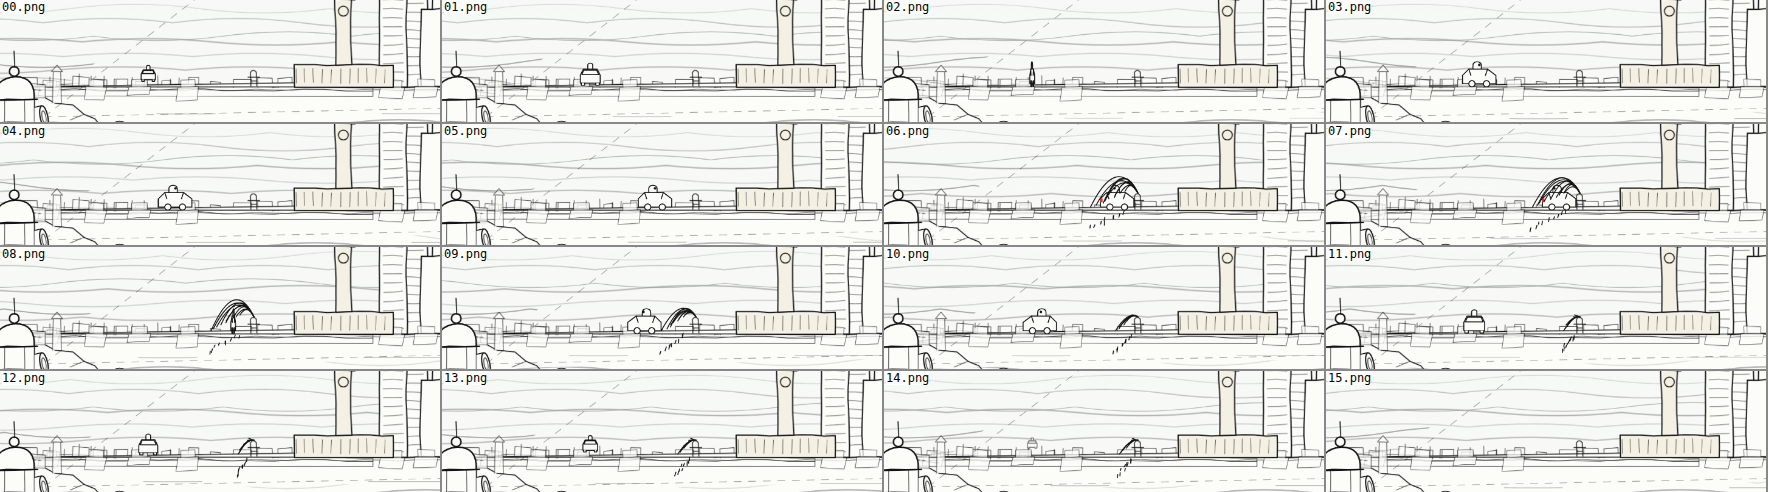
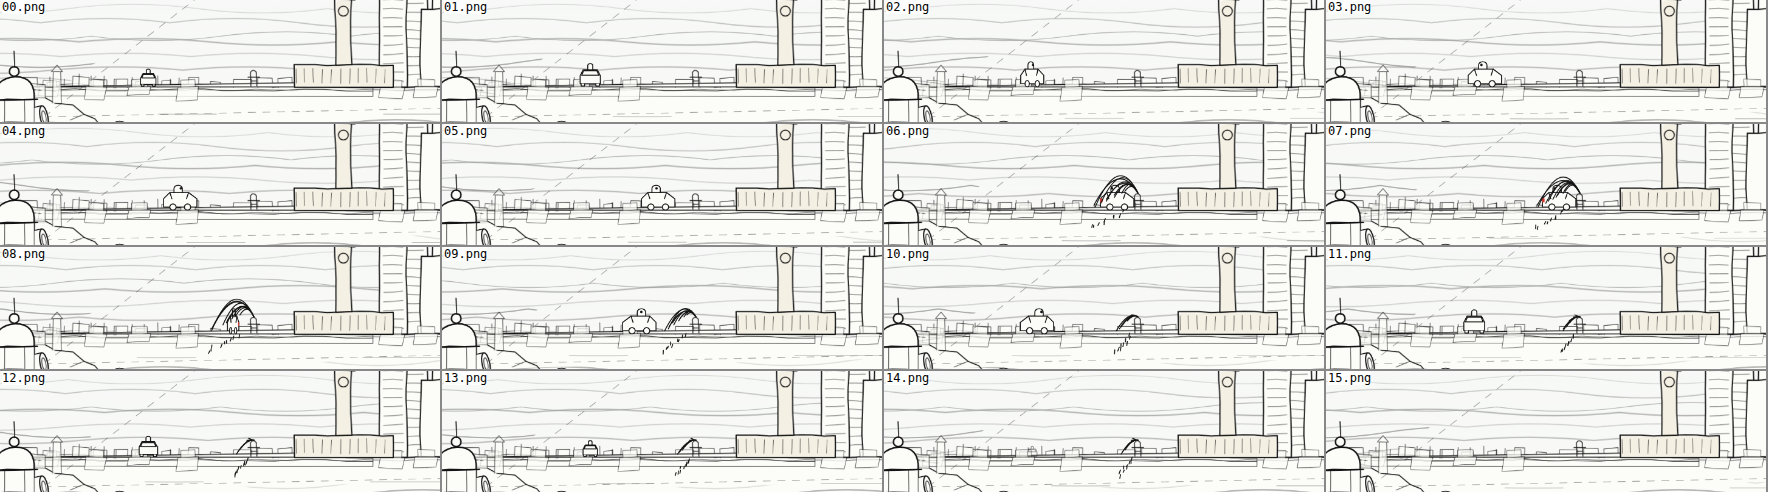
Mockup: frame fits the stage's shape, robotaxi on one plane, more boats and whales
On a stage taller than the drawing, as on a phone, the extra height becomes sky above it and room for the stamp below: the sky colour, stars, moon, clouds, rain and a rocket's climb reach the top of the frame. The robotaxi keeps to the waterfront's line and only its size changes. At the point and the bridge a boat and a whale come in the first act, whales and boats come twice for each rocket or bear, and boats also keep their own slower clock, two on the water at most.

diff --git a/docs/mockup/index.html b/docs/mockup/index.html
@@ -253,12 +253,12 @@ header.top{display:flex;align-items:baseline;justify-content:space-between;gap:1
         <filter id="haze" x="-100%" y="-100%" width="300%" height="300%"><feGaussianBlur stdDeviation="5"/></filter>
         <filter id="lamp" x="-400%" y="-400%" width="900%" height="900%"><feGaussianBlur in="SourceGraphic" stdDeviation="2.2" result="b"/><feMerge><feMergeNode in="b"/><feMergeNode in="b"/><feMergeNode in="SourceGraphic"/></feMerge></filter>
         <filter id="lampwide" x="-60%" y="-60%" width="220%" height="220%"><feGaussianBlur stdDeviation="3.5"/></filter>
-        <linearGradient id="skygrad" x1="0" y1="0" x2="0" y2="1"><stop id="sky-top" offset="0" stop-color="#BFD3E6" stop-opacity="0"/><stop id="sky-low" offset="1" stop-color="#F2B48C" stop-opacity="0"/></linearGradient>
-        <clipPath id="above-horizon"><rect x="0" y="-400" width="1600" height="740"/></clipPath>
+        <linearGradient id="skygrad" gradientUnits="userSpaceOnUse" x1="0" y1="0" x2="0" y2="342"><stop id="sky-top" offset="0" stop-color="#BFD3E6" stop-opacity="0"/><stop id="sky-low" offset="1" stop-color="#F2B48C" stop-opacity="0"/></linearGradient>
+        <clipPath id="above-horizon"><rect x="0" y="-3000" width="1600" height="3340"/></clipPath>
         <mask id="fogmask"><rect x="0" y="0" width="1600" height="700" fill="white"/><polygon id="cone" points="0,0" fill="black"/></mask>
         <mask id="binoc"><rect x="0" y="0" width="1600" height="700" fill="black"/><circle cx="700" cy="290" r="210" fill="white"/><circle cx="900" cy="290" r="210" fill="white"/></mask>
       </defs>
-      <g class="zoom"><g id="skywashg"><rect class="skywash" x="0" y="0" width="1600" height="342" fill="url(#skygrad)"/></g></g>
+      <g class="zoom"><g id="skywashg"><rect class="skywash" id="skywash" x="0" y="0" width="1600" height="342" fill="url(#skygrad)"/></g></g>
       <g id="celes" class="scene sky thin"></g>
       <g class="zoom"><g id="skyall"><g id="sky" class="scene sky thin"></g><g id="fogfar" class="fog scene"></g></g></g>
       <g id="lifeback" class="life scene"></g>
@@ -372,6 +372,9 @@ header.top{display:flex;align-items:baseline;justify-content:space-between;gap:1
   const NS = "http://www.w3.org/2000/svg";
   const el = (tag, attrs={}, parent) => { const n = document.createElementNS(NS, tag); for (const k in attrs) n.setAttribute(k, attrs[k]); if (parent) parent.appendChild(n); return n; };
   function rng(seed){ let s = seed; return () => (s = (s * 16807) % 2147483647) / 2147483647; }
+  // the frame: the drawing is 1600 by 700; a stage of another shape, a phone's for one, gets its extra height as more sky above
+  // (and room for the stamp below), so FRAME.top is how far the frame reaches above the drawing's top edge, in its own units
+  const FRAME = { top:0, H:700, title:[0, 0, 440, 104] };
   const W = 1600;                         // the frame is the scene: the view from the point
   const CH = 756, HYD = 1330;             // in the city's own units: City Hall's x, and the hydrant's on the Marina seawall
 
@@ -1044,7 +1047,7 @@ header.top{display:flex;align-items:baseline;justify-content:space-between;gap:1
   // the frame looks from a little north of east round to the south-east: the sun rises over the Gate and the bay
   // drawn, not surveyed: the sky is widened so the whole day and night cross the frame, east at the left edge, west at the right
   function xOfAzimuth(az){ const a = ((az % 360) + 360) % 360; return (Math.max(50, Math.min(310, a)) - 50)/260 * W; }
-  function yOfAltitude(alt){ return 330 - Math.max(-12, Math.min(60, alt))*5.4; }
+  function yOfAltitude(alt){ return 330 - Math.max(-12, Math.min(60, alt))*5.4*(1 + FRAME.top/330); }
   const HEADING = { home:105, city:125, bridge:100, valley:150 };
 
   const sky = $("#sky"), skyFront = $("#skyfront"), celes = $("#celes"); let celesTimer = null, lastView = null;
@@ -1054,11 +1057,11 @@ header.top{display:flex;align-items:baseline;justify-content:space-between;gap:1
     if (view === "home" || view === "valley") sx = Math.max(r + 20, Math.min(1600 - r - 20, sx));
     // at the point, never over a label: lift above it, or failing that set it below
     if (view === "home") for (const [x1, y1, x2, y2] of LABELS) if (sx + r > x1 && sx - r < x2 && sy + r > y1 && sy - r < y2){
-      if (sy < (y1 + y2)/2 || y2 + r + 4 > 332) sy = Math.max(r + 4, y1 - r - 2);                 // above the label, as high as the frame allows
+      if (sy < (y1 + y2)/2 || y2 + r + 4 > 332) sy = Math.max(r + 4 - FRAME.top, y1 - r - 2);                 // above the label, as high as the frame allows
       else sy = y2 + r + 4;                                                                         // or below it, if it was already low
       if (sy + r > y1 && sy - r < y2) sx = (sx < (x1 + x2)/2) ? x1 - r - 6 : x2 + r + 6; }         // and if it still would not clear, beside it
-    for (const [x1, y1, x2, y2] of [[0, 0, 440, 104]]) if (sx + r > x1 && sx - r < x2 && sy + r > y1 && sy - r < y2) sx = x2 + r + 10;   // the title, in every view
-    return (sx - r < 4 || sx + r > 1596 || sy - r < 2) ? null : [sx, sy]; }
+    for (const [x1, y1, x2, y2] of [FRAME.title]) if (sx + r > x1 && sx - r < x2 && sy + r > y1 && sy - r < y2) sx = x2 + r + 10;   // the title, in every view
+    return (sx - r < 4 || sx + r > 1596 || sy - r < 2 - FRAME.top) ? null : [sx, sy]; }
   const LABELS = [[90, 100, 600, 222], [990, 100, 1570, 222]];
   // The sky's own colour: the faintest wash, blue by day, warm at the horizon around dawn and dusk, a deep
   // blue at night. Each is a pair of stops keyed to the sun's altitude and blended between the keys.
@@ -1099,7 +1102,7 @@ header.top{display:flex;align-items:baseline;justify-content:space-between;gap:1
     const sy = v => toScene(view, 800, v)[1], base = sy([0, 84, 96, 104][heavy]);
     // most cloud is behind the land and the bridge; one in four passes in front of them
     // cloud keeps to two bands: high, above the labels, and low, along the horizon behind the land
-    for (let i=0;i<w.clouds*3 + heavy*4;i++){ const y = heavy ? sy(200 + r()*84) : i % 3 === 2 ? 236 + r()*52 : 66 + r()*24, wd = 80 + r()*140, front = !w.streak && i % 4 === 3;
+    for (let i=0;i<w.clouds*3 + heavy*4;i++){ const y = heavy ? sy(200 + r()*84) : i % 3 === 2 ? 236 + r()*52 : 66 - FRAME.top*.8 + r()*(24 + FRAME.top*.45), wd = 80 + r()*140, front = !w.streak && i % 4 === 3;
       const d = w.streak ? `M0 ${y} q ${wd*.5} -6 ${wd} 0 M20 ${y+8} q ${wd*.3} -4 ${wd*.6} 0` : `M0 ${y} q ${wd*.2} -18 ${wd*.45} -6 q ${wd*.15} -16 ${wd*.35} -2 q ${wd*.2} -4 ${wd*.2} 8 Z`;
       const c = el("path", {d, class:"cloud"}, front ? skyFront : sky); if (!w.streak) c.style.fill = "var(--paper)";
       const own = cross*(.8 + r()*.4); c.style.animationDuration = own.toFixed(0) + "s"; c.style.animationDelay = (-(((clock/own) + r()) % 1)*own).toFixed(1) + "s"; }
@@ -1112,7 +1115,7 @@ header.top{display:flex;align-items:baseline;justify-content:space-between;gap:1
       for (let rep = -1; rep < 5; rep++) pts.forEach(([x, y], i) => { const nx = i + 1 < pts.length ? pts[i+1][0] : P, ny = i + 1 < pts.length ? pts[i+1][1] : pts[0][1], ox = rep*P;
         edge += `${edge ? "" : "M " + (ox + x) + " " + y} C ${(ox + x + (nx - x)*.1).toFixed(1)} ${(y + lobes[i]*1.3).toFixed(1)}, ${(ox + nx - (nx - x)*.1).toFixed(1)} ${(ny + lobes[i]*1.3).toFixed(1)}, ${ox + nx} ${ny}`; });
       const deck = el("g", {class:"deck"}, sky);
-      const shape = `M -600 -400 L -600 ${pts[0][1]} L ${edge.slice(2)} L 3000 -400 Z`;
+      const shape = `M -600 -3000 L -600 ${pts[0][1]} L ${edge.slice(2)} L 3000 -3000 Z`;
       el("path", {d:shape, style:"fill:var(--paper);stroke:none"}, deck);
       el("path", {d:shape, style:`fill:var(--ink);stroke:none;opacity:${[0, .05, .12, .19][heavy]}`}, deck);
       el("path", {d:edge}, deck);
@@ -1128,11 +1131,11 @@ header.top{display:flex;align-items:baseline;justify-content:space-between;gap:1
         for (let x = 0; x < wd; x += 6 + r()*8) d += ` L ${(x + 3).toFixed(1)} ${(y - 3 - r()*7).toFixed(1)} L ${(x + 6).toFixed(1)} ${(y - r()*2).toFixed(1)}`;
         const c = el("path", {d: d + ` L ${wd} ${y} Q ${wd*.5} ${y + 4} 0 ${y} Z`, class:"cloud hair", style:`fill:var(--paper);fill-opacity:.9`}, sky);
         const own = cross*(.35 + r()*.2); c.style.animationDuration = own.toFixed(0) + "s"; c.style.animationDelay = (-(((clock/own) + r()) % 1)*own).toFixed(1) + "s"; } }
-    const rainN = [0, 220, 560][Math.max(w.rain, rainLevel)];
+    const rainN = Math.round([0, 220, 560][Math.max(w.rain, rainLevel)]*FRAME.H/700), rtop = heavy ? base : 60 - FRAME.top;
     if (rainN){ const slant = -lateral * 0.35;
       const far = el("g", {class:"rain"}, sky), near = el("g", {class:"rain near"}, $("#rainnear"));
-      for (let i=0;i<rainN;i++){ const x = r()*W, y = (heavy ? base : 60) + r()*(332 - (heavy ? base : 60)); el("path", {d:`M${x} ${y} l ${slant*.7} 7`, class:"hair"}, far); }        // above the horizon only
-      for (let i=0;i<rainN*.35;i++){ const x = r()*W, y = 40 + r()*640; el("path", {d:`M${x} ${y} l ${slant*1.3} 13`, class:"hair"}, near); } }
+      for (let i=0;i<rainN;i++){ const x = r()*W, y = rtop + r()*(332 - rtop); el("path", {d:`M${x} ${y} l ${slant*.7} 7`, class:"hair"}, far); }        // above the horizon only
+      for (let i=0;i<rainN*.35;i++){ const x = r()*W, y = 40 - FRAME.top + r()*(FRAME.H - 60); el("path", {d:`M${x} ${y} l ${slant*1.3} 13`, class:"hair"}, near); } }
     document.querySelectorAll(".gull").forEach(p=>{ p.style.transform = `rotate(${lateral > 20 ? 14 : lateral < -20 ? -14 : 0}deg)`; p.style.transformOrigin = "center"; });
     // the day's light
     const now = sfNow(), sun = sunPosition(now), phase = moonPhase(now), moon = sunPosition(now, phase*360, Math.cos(phase*2*Math.PI));
@@ -1146,8 +1149,8 @@ header.top{display:flex;align-items:baseline;justify-content:space-between;gap:1
     if (sunAt){ const [x, y] = sunAt;
       el("path", {d:`M ${x} ${y} m -22 0 a 22 22 0 1 0 44 0 a 22 22 0 1 0 -44 0 M ${x} ${y-34} l 0 -10 M ${x} ${y+34} l 0 10 M ${x-34} ${y} l -10 0 M ${x+34} ${y} l 10 0`, class:"thin sun", style:"fill:var(--paper)"}, celes);
     }
-    if (night && !heavy){ const rs = rng(Math.floor(Date.now()/86400e3)); const n = 4 + Math.floor(rs()*2);
-      for (let i=0;i<n;i++){ const x = 480 + rs()*1080, y = 30 + rs()*62, sz = 2 + rs()*1.6;
+    if (night && !heavy){ const rs = rng(Math.floor(Date.now()/86400e3)); const n = 4 + Math.floor(rs()*2) + Math.round(FRAME.top/140);
+      for (let i=0;i<n;i++){ const x = 480 + rs()*1080, y = 30 - FRAME.top*.9 + rs()*(62 + FRAME.top*.6), sz = 2 + rs()*1.6;
         const st = el("path", {d:`M ${x} ${y-sz*2} L ${x+sz*.45} ${y-sz*.45} L ${x+sz*2} ${y} L ${x+sz*.45} ${y+sz*.45} L ${x} ${y+sz*2} L ${x-sz*.45} ${y+sz*.45} L ${x-sz*2} ${y} L ${x-sz*.45} ${y-sz*.45} Z`, class:"star", style:"fill:var(--ink);stroke:none;filter:url(#soft)"}, celes); st.dataset.x = x; st.dataset.y = y;
         st.style.animationDuration = (5 + rs()*7).toFixed(1) + "s"; st.style.animationDelay = (-rs()*10).toFixed(1) + "s"; } }
     // the moon is drawn at its phase and where it is; on a night it has set, the drawing keeps it low over the horizon anyway
@@ -1168,7 +1171,21 @@ header.top{display:flex;align-items:baseline;justify-content:space-between;gap:1
     const dir = ["N","NE","E","SE","S","SW","W","NW"][Math.round(((o.wind_from%360)+360)%360/45)%8];
     $("#obs").innerHTML = `<b>${sfClock(now)} in San Francisco</b> · ${o.station} ${sfClock(o.time)} · ${o.text.toLowerCase()} · wind ${dir} ${o.wind_kmh} km/h · ${o.temp_c}°C${o.sample ? " · sample observation" : age > 90 ? " · last observation" : ""}`;
   }
-  drawSky(OBS, "home");
+  let skyReady = false;
+  function fit(){
+    const w = stage.clientWidth, h = stage.clientHeight; if (!w || !h) return;
+    const u = 1600/w, H = h*u, extra = Math.max(0, H - 700), stamp = document.querySelector(".stamp");
+    const room = extra > 0 ? Math.min(extra, ((stamp ? stamp.offsetHeight : 0) + 16)*u) : 0, top = extra - room;
+    const sr = stage.getBoundingClientRect(), c = $("#caption").getBoundingClientRect();
+    FRAME.title = [0, -top, Math.max(440, (c.right - sr.left)*u + 24), (c.bottom - sr.top)*u - top + 14];
+    if (Math.abs(top - FRAME.top) < 1 && Math.abs(H - FRAME.H) < 1) return;
+    FRAME.top = top; FRAME.H = H;
+    for (const s of stage.querySelectorAll(":scope > svg")) s.setAttribute("viewBox", `0 ${(-top).toFixed(1)} 1600 ${H.toFixed(1)}`);
+    $("#skygrad").setAttribute("y1", (-top).toFixed(1)); const sw = $("#skywash"); sw.setAttribute("y", (-top - 2).toFixed(1)); sw.setAttribute("height", (344 + top).toFixed(1));
+    if (skyReady) drawSky(OBS, stage.dataset.view); }
+  fit(); let fitT = null;
+  new ResizeObserver(()=>{ clearTimeout(fitT); fitT = setTimeout(fit, 120); }).observe(stage);
+  drawSky(OBS, "home"); skyReady = true;
   fetchObservation().then(o=>{ if (o){ LIVE = o; if (!FORCED) OBS = o; drawSky(OBS, stage.dataset.view); } });
   setInterval(()=>{ fetchObservation().then(o=>{ if (o){ LIVE = o; if (!FORCED) OBS = o; } drawSky(OBS, stage.dataset.view); }); }, 600e3);
   // the exploring strip: force a sky or an hour, for looking, not for the page
@@ -1326,7 +1343,7 @@ header.top{display:flex;align-items:baseline;justify-content:space-between;gap:1
       rocketUntil = performance.now() + 60000;
       const end = () => { holder.remove(); rocketUntil = performance.now() + 4000; };
       if (mode === "fly"){
-        tween(15000/pace, k=>{ const y = y0 - k*k*(y0 + 90), x = x0 - k*k*70*lean;
+        tween(15000/pace, k=>{ const y = y0 - k*k*(y0 + 90 + FRAME.top), x = x0 - k*k*70*lean;
           g.setAttribute("transform", `translate(${x.toFixed(2)},${y.toFixed(2)}) rotate(${(-k*9*lean).toFixed(2)})`); puff(); flick(true); plume.style.opacity = 1 - k*.6; }, end);
         return 16000; }
       // both failures follow the same physics: thrust while the engine runs, then only gravity
@@ -1391,7 +1408,7 @@ header.top{display:flex;align-items:baseline;justify-content:space-between;gap:1
       // hydrant, turns round, and goes back up the same street into the city. It keeps to the Marina, west of the Ferry Building,
       // where the BART train never runs. Everything is on screen for the city view, in the city's own units scaled up.
       const k = ZOOM.city.s*CITY.k, [hx, hy] = toScreen("city", cityX(HYD), CITY.y), [sx] = toScreen("city", 926, CITY.y);
-      const S = 1.05*k, y = hy - 3*S, stop = hx - 20*S, far = 7*S, P = "fill:var(--paper)";
+      const S = 1.05*k, y = hy - 3*S, stop = hx - 20*S, P = "fill:var(--paper)";
       const g = el("g", {class:"thin"}, life), side = el("g", {}, g), front = el("g", {}, g), back = el("g", {}, g);
       // side on, nose to the left as drawn; flipped to face east
       el("path", {d:"M-16 0 L 16 0 L 16 -8 L 10 -14 L -8 -14 L -16 -8 Z M-2 -14 L -2 -18 a 4 3 0 1 1 8 0 L 6 -14 Z", style:P}, side);
@@ -1407,7 +1424,7 @@ header.top{display:flex;align-items:baseline;justify-content:space-between;gap:1
       face(front, "carlight lamp", "#FFF6D2"); face(back, "tail", "#D8352B");
       el("path", {d:"M -7 -1 L -14 12 L 14 12 L 7 -1 Z", class:"carlight beamcone", style:"fill:#F6DE92;stroke:none;fill-opacity:.4"}, front);
       const show = v => { side.style.display = v === side ? "" : "none"; front.style.display = v === front ? "" : "none"; back.style.display = v === back ? "" : "none"; };
-      const at = (x, yy, sxk, syk, op = 1) => { g.setAttribute("transform", `translate(${x.toFixed(1)},${yy.toFixed(1)})`); g.style.opacity = op;
+      const at = (x, yy, sxk, syk, op = 1) => { yy += 3*S*(1 - syk); g.setAttribute("transform", `translate(${x.toFixed(1)},${yy.toFixed(1)})`); g.style.opacity = op;
         for (const v of [side, front, back]) v.setAttribute("transform", `scale(${(sxk*S).toFixed(3)},${(syk*S).toFixed(3)})`); };
       // the water, from the drawn hydrant's cap, arcing west over the car that hit it
       const spout = el("g", {class:"thin", transform:`translate(${hx},${hy}) scale(${-k},${k})`}, life); spout.style.opacity = 0;
@@ -1418,10 +1435,10 @@ header.top{display:flex;align-items:baseline;justify-content:space-between;gap:1
       const ease = u => u*u*(3 - 2*u), turn = (from, to, ms, done) => tween(ms, u=>{ const half = u < .5; show(half ? from.v : to.v);
         const w = half ? 1 - u*2 : u*2 - 1, v = half ? from : to; at(v.x, y, w*v.dir, 1); }, done);
       const out = { x:sx, dir:1 };
-      // down the street toward us, small and far to full size at the waterfront, coming out of the dark if it is night
+      // out of the Marina toward us: on the waterfront's own line, small at first and growing, as a car does coming down a street at you
       const T = [2400, 520, 2600, 2200, 900, 2400, 520, 2400];
       show(front);
-      tween(T[0], u=>{ const e = ease(u), sc = .42 + .58*e; at(sx, y - far*(1 - e), sc, sc, Math.min(1, u*3)); }, ()=>
+      tween(T[0], u=>{ const e = ease(u), sc = .42 + .58*e; at(sx, y, sc, sc, Math.min(1, u*3)); }, ()=>
       turn({ v:front, x:sx, dir:1 }, { v:side, x:sx, dir:-1 }, T[1], ()=>
       tween(T[2], u=>{ const x = sx + (stop - sx)*Math.min(u*1.12, 1), bump = u > .89 ? Math.sin((u - .89)*70)*2.5*(1 - u)/.11 : 0;
         at(x - bump, y, -1, 1); if (u > .82) side.classList.add("braking"); if (u > .89) spout.style.opacity = 1; }, ()=>
@@ -1429,7 +1446,7 @@ header.top{display:flex;align-items:baseline;justify-content:space-between;gap:1
       tween(T[4], u=>{ at(stop, y, -(1 - 2*u), 1); }, ()=>{ side.classList.remove("braking");
       tween(T[5], u=>{ at(stop + (sx - stop)*ease(u), y, 1, 1); flow = Math.max(.05, 1 - u*1.05); }, ()=>
       turn({ v:side, x:sx, dir:1 }, { v:back, x:sx, dir:1 }, T[6], ()=>
-      tween(T[7], u=>{ const e = ease(u), sc = 1 - .58*e; at(sx, y - far*e, sc, sc, Math.min(1, (1 - u)*3)); }, ()=>{ clearInterval(spin); g.remove(); spout.remove(); })) ); })))));
+      tween(T[7], u=>{ const e = ease(u), sc = 1 - .58*e; at(sx, y, sc, sc, Math.min(1, (1 - u)*3)); }, ()=>{ clearInterval(spin); g.remove(); spout.remove(); })) ); })))));
       const total = T.reduce((a, b) => a + b, 0); taxiUntil = performance.now() + total + 6000;
       return total; },
     zzz(){ if (stage.dataset.view !== "bridge" || !stage.classList.contains("night")) return 0;
@@ -1453,7 +1470,7 @@ header.top{display:flex;align-items:baseline;justify-content:space-between;gap:1
       setTimeout(()=>{ stage.classList.remove("gust"); }, 5000); },
     sail(){ const view = stage.dataset.view; if (view !== "bridge" && view !== "home") return 0;
       const home = view === "home", farLane = !home && Math.random() < .5;   // on the bridge, half of them pass out under it, far off, behind the south tower
-      const g = el("g", {class:"thin"}, farLane ? $("#lifeback") : life), boat = el("g", {}, g), P = "fill:var(--paper)";
+      const g = el("g", {class:"thin", "data-boat":1}, farLane ? $("#lifeback") : life), boat = el("g", {}, g), P = "fill:var(--paper)";
       el("path", {d:"M -22 0 L 24 0 L 17 7 L -16 7 Z", style:P}, boat);
       el("path", {d:"M 0 0 L 0 -44", class:"thin"}, boat);
       el("path", {d:"M 1.5 -42 Q 14 -24 21 -3 L 1.5 -3 Z", style:P}, boat);
@@ -1500,7 +1517,8 @@ header.top{display:flex;align-items:baseline;justify-content:space-between;gap:1
         const rk = Math.max(0, (k - .9)/.1); ring.setAttribute("d", rk > 0 ? `M ${x - 30*sc*(1 + rk)} ${y + 2} q ${30*sc*(1 + rk)} ${-5*sc} ${60*sc*(1 + rk)} 0` : ""); ring.style.opacity = 1 - rk*.7;
       }, ()=>{ g.remove(); cp.remove(); whaleUp = Math.max(0, whaleUp - 1); });
       return dur; },
-    boat(){ const view = stage.dataset.view; if (view !== "bridge" && view !== "home") return 0; (Math.random() < .5 && !stage.classList.contains("night") ? EVENTS.sail : EVENTS.cargo)(); return 9000; },
+    boat(){ const view = stage.dataset.view; if (view !== "bridge" && view !== "home") return 0;
+      if (document.querySelectorAll("#life [data-boat], #lifeback [data-boat]").length >= 2) return 0; /* two on the water at most */ (Math.random() < .5 && !stage.classList.contains("night") ? EVENTS.sail : EVENTS.cargo)(); return 9000; },
     bartsf(){ const V = stage.dataset.view; if ((V !== "home" && V !== "city") || performance.now() < sfTrainUntil) return 0;
       // BART along Market, seen from the point: six cars out of the Transbay Tube by the Ferry Building, stopping at Embarcadero,
       // Montgomery, Civic Center and 16th Street Mission, then on down the peninsula past the right edge; or the same run northbound.
@@ -1545,7 +1563,7 @@ header.top{display:flex;align-items:baseline;justify-content:space-between;gap:1
       return dur; },
     cargo(){ const view = stage.dataset.view; if (view !== "bridge" && view !== "home") return 0;
       // a container ship, long and low, stacked with boxes, the house and funnel aft
-      const g = el("g", {class:"thin"}, life), P = "fill:var(--paper)";
+      const g = el("g", {class:"thin", "data-boat":1}, life), P = "fill:var(--paper)";
       el("path", {d:"M -62 0 L 60 0 L 70 -6 L 70 2 L 60 11 L -58 11 Z", style:P}, g);
       el("path", {d:"M -58 5 L 64 5", class:"hair"}, g);
       el("path", {d:"M -56 0 L -56 -18 L -40 -18 L -40 0 Z", style:P}, g);
@@ -1613,9 +1631,9 @@ header.top{display:flex;align-items:baseline;justify-content:space-between;gap:1
      clocks alongside. Everything is cancelled and restarted when the view changes, and any error in one
      event is caught so the others carry on. */
   const PLAY = {
-    home:   { first:[["rocket", 9000], ["bartsf", 20000]],                                   features:["whale", "rocket", "boat"],  gap:[12000, 22000], ambient:[["gull", [18000, 34000]], ["plane", [26000, 48000]], ["bartsf", [30000, 50000]]] },
+    home:   { first:[["boat", 3000], ["rocket", 9000], ["bartsf", 20000], ["whale", 30000]], features:["whale", "boat", "rocket", "whale", "boat"], gap:[9000, 16000], ambient:[["gull", [18000, 34000]], ["plane", [26000, 48000]], ["bartsf", [30000, 50000]], ["boat", [45000, 75000]]] },
     city:   { first:[["robotaxi", 6000], ["bartsf", 12000], ["cityferry", 24000]], features:["robotaxi", "cityferry"],    gap:[14000, 24000], ambient:[["gull", [20000, 36000]], ["plane", [28000, 50000]], ["bartsf", [30000, 50000]]] },
-    bridge: { first:[["boat", 2500], ["bear", 15000], ["whale", 30000]],  features:["bear", "whale", "boat"],     gap:[12000, 22000], ambient:[["gull", [18000, 34000]], ["plane", [30000, 55000]], ["zzz", [16000, 28000]]] },
+    bridge: { first:[["boat", 2500], ["bear", 12000], ["whale", 24000]],  features:["whale", "boat", "bear", "whale", "boat"], gap:[9000, 16000], ambient:[["gull", [18000, 34000]], ["plane", [30000, 55000]], ["zzz", [16000, 28000]], ["boat", [50000, 80000]]] },
     valley: { first:[["bart", 1500], ["rocket", 13000]],                  features:["bart", "rocket", "bart"],   gap:[5000, 11000],  ambient:[] },
   };
   const rand = ([lo, hi]) => lo + Math.random()*(hi - lo);
@@ -1629,7 +1647,7 @@ header.top{display:flex;align-items:baseline;justify-content:space-between;gap:1
     const play = name => { let ms = 0; try { ms = EVENTS[name]() || 0; } catch (e) { console.error(e); } return ms; };
     const feature = delay => cue(delay, ()=>{ if (stage.dataset.view !== view) return; const ms = play(next()); feature(Math.max(ms, 3000) + rand(plan.gap)); });
     let end = 0; for (const [e, ms0] of plan.first){ const ms = ms0*(.7 + Math.random()*.6); cue(ms, ()=>{ if (stage.dataset.view === view) play(e); }); end = Math.max(end, ms); }
-    feature(end + 16000 + rand(plan.gap));
+    feature(end + 8000 + rand(plan.gap));
     for (const [e, range] of plan.ambient){ const again = d => cue(d, ()=>{ if (stage.dataset.view === view) play(e); again(rand(range)); }); again(rand(range)); }
   }
   // a still bay: every motion stops, for anyone who needs it to
